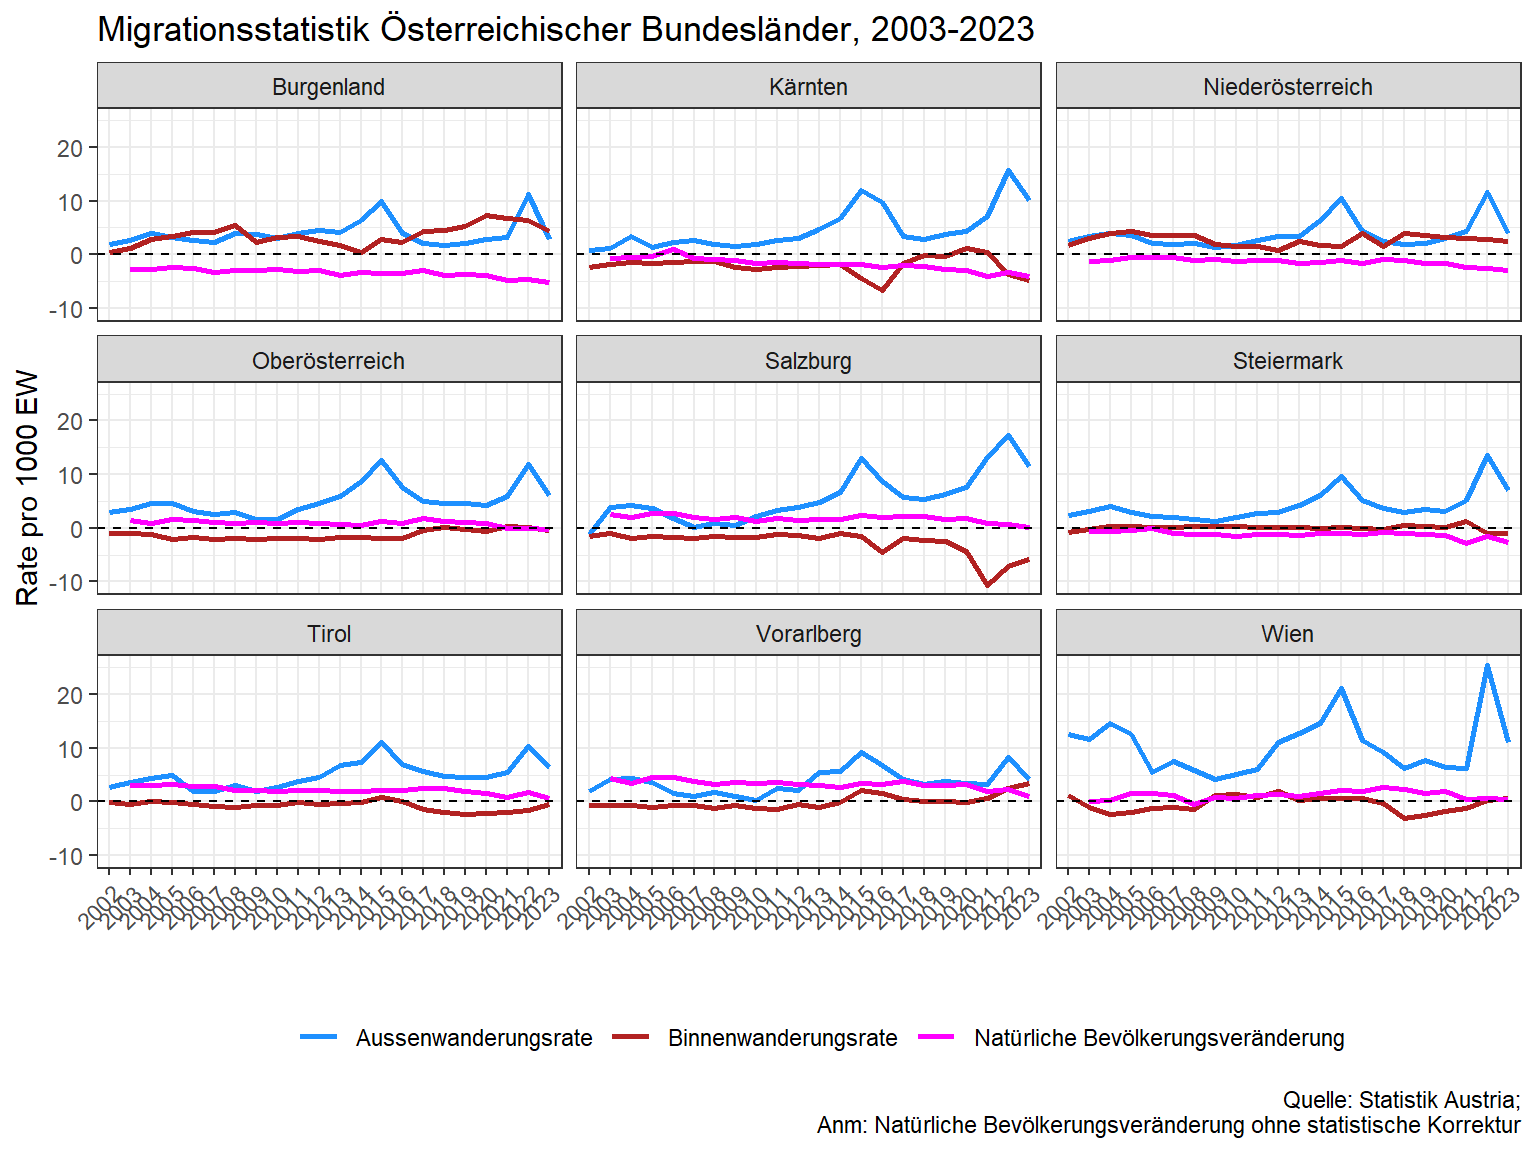
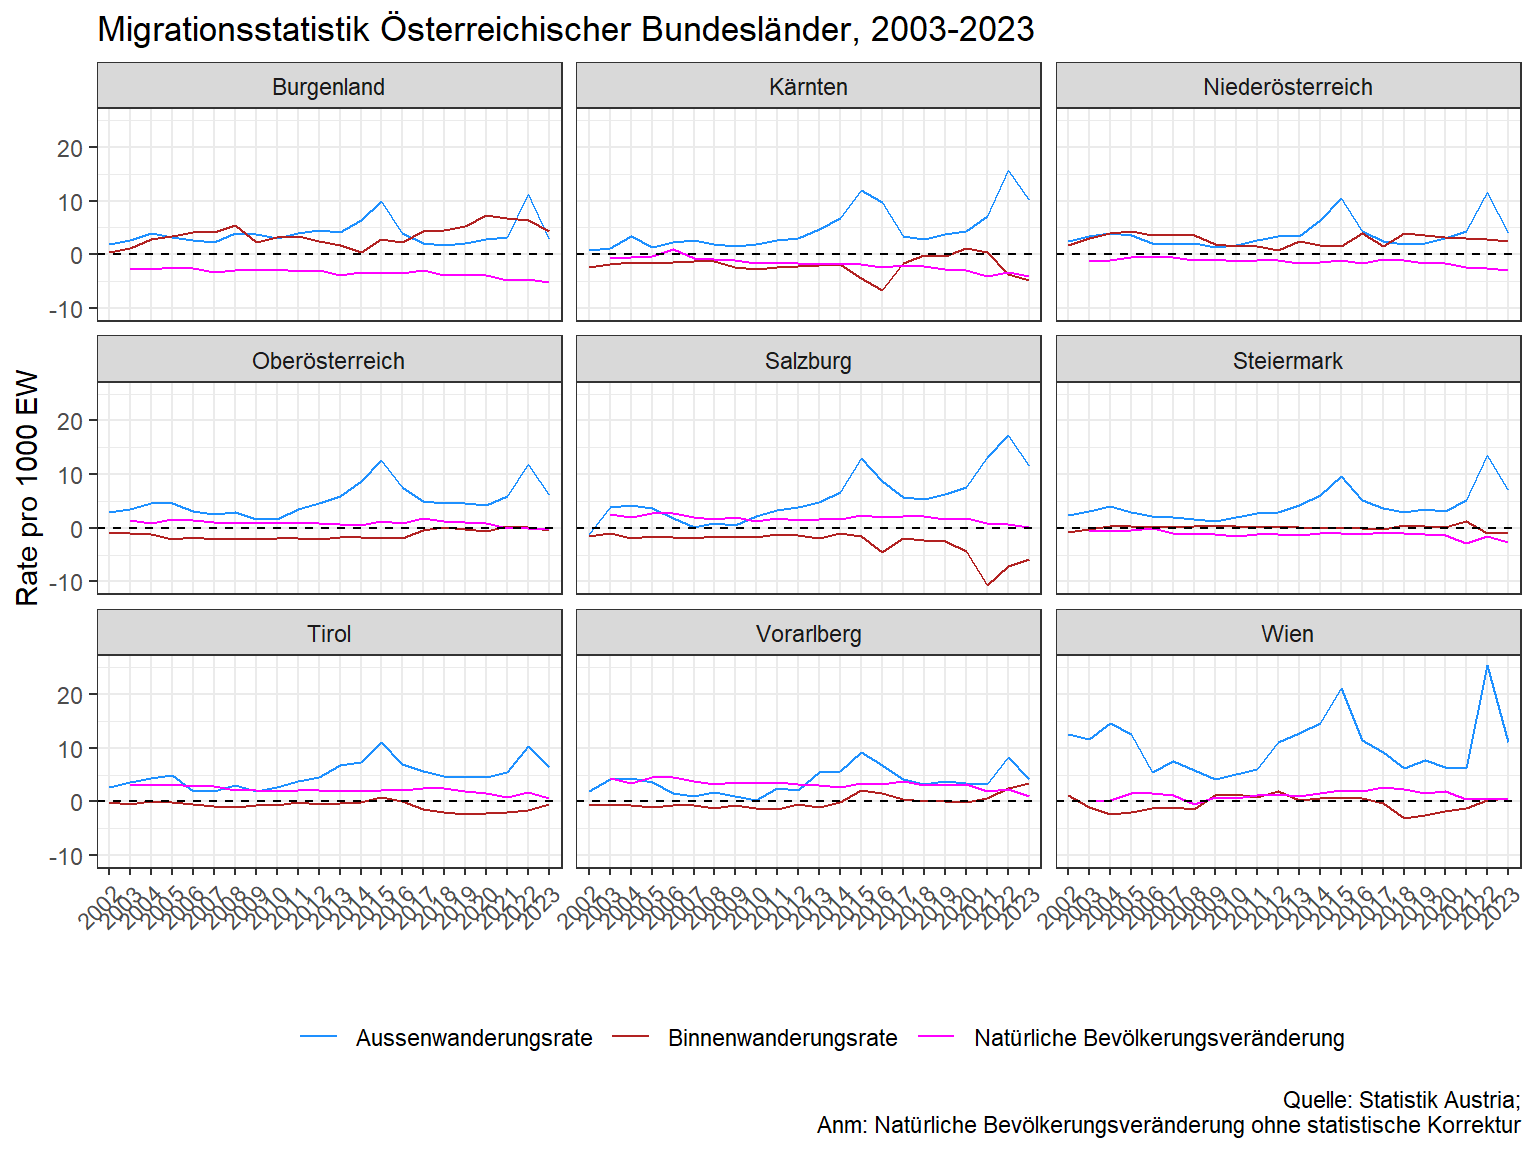
update

diff --git a/docs/05_regional_profile.html b/docs/05_regional_profile.html
@@ -300,7 +300,7 @@ pre > code.sourceCode > span > a:first-child::before { text-decoration: underlin
 <span id="cb7-5"><a href="#cb7-5" aria-hidden="true" tabindex="-1"></a>  <span class="fu">scale_color_manual</span>(</span>
 <span id="cb7-6"><a href="#cb7-6" aria-hidden="true" tabindex="-1"></a>    <span class="at">values =</span> <span class="fu">c</span>(<span class="st">"Urbaner Raum"</span> <span class="ot">=</span> <span class="st">"#b35e6b"</span>,</span>
 <span id="cb7-7"><a href="#cb7-7" aria-hidden="true" tabindex="-1"></a>               <span class="st">"Suburbaner Raum"</span> <span class="ot">=</span> <span class="st">"#eeaf58"</span>,</span>
-<span id="cb7-8"><a href="#cb7-8" aria-hidden="true" tabindex="-1"></a>               <span class="st">"Regionalzentren"</span> <span class="ot">=</span> <span class="st">"#eeec85"</span>,</span>
+<span id="cb7-8"><a href="#cb7-8" aria-hidden="true" tabindex="-1"></a>               <span class="st">"Regionalzentren"</span> <span class="ot">=</span> <span class="st">"#e0df70"</span>,</span>
 <span id="cb7-9"><a href="#cb7-9" aria-hidden="true" tabindex="-1"></a>               <span class="st">"Ländlicher Raum"</span> <span class="ot">=</span> <span class="st">"#84b870"</span>))<span class="sc">+</span></span>
 <span id="cb7-10"><a href="#cb7-10" aria-hidden="true" tabindex="-1"></a>  <span class="fu">theme_bw</span>()<span class="sc">+</span></span>
 <span id="cb7-11"><a href="#cb7-11" aria-hidden="true" tabindex="-1"></a>  <span class="fu">theme</span>(<span class="at">axis.text.x =</span> <span class="fu">element_text</span>(<span class="at">angle =</span> <span class="dv">45</span>, <span class="at">hjust =</span> <span class="dv">1</span>),</span>

diff --git a/docs/02_data_manipulation.html b/docs/02_data_manipulation.html
@@ -727,7 +727,7 @@ window.Quarto = {
 <div class="cell">
 <div class="code-copy-outer-scaffold"><div class="sourceCode cell-code" id="cb41"><pre class="sourceCode r code-with-copy"><code class="sourceCode r"><span id="cb41-1"><a href="#cb41-1" aria-hidden="true" tabindex="-1"></a><span class="fu">ggplot</span>(<span class="at">data =</span> rates_all <span class="sc">%&gt;%</span> <span class="fu">filter</span>(variable <span class="sc">!=</span> <span class="st">"mig_rate"</span>),</span>
 <span id="cb41-2"><a href="#cb41-2" aria-hidden="true" tabindex="-1"></a>       <span class="fu">aes</span>(<span class="at">x =</span> <span class="fu">as.factor</span>(jahr), <span class="at">y =</span> value, <span class="at">color =</span> variable, <span class="at">group =</span> variable))<span class="sc">+</span></span>
-<span id="cb41-3"><a href="#cb41-3" aria-hidden="true" tabindex="-1"></a>  <span class="fu">geom_line</span>(<span class="at">linewidth =</span> <span class="dv">1</span>)<span class="sc">+</span></span>
+<span id="cb41-3"><a href="#cb41-3" aria-hidden="true" tabindex="-1"></a>  <span class="fu">geom_line</span>()<span class="sc">+</span></span>
 <span id="cb41-4"><a href="#cb41-4" aria-hidden="true" tabindex="-1"></a>  <span class="co">#theme_classic()+</span></span>
 <span id="cb41-5"><a href="#cb41-5" aria-hidden="true" tabindex="-1"></a>  <span class="fu">scale_color_manual</span>(</span>
 <span id="cb41-6"><a href="#cb41-6" aria-hidden="true" tabindex="-1"></a>    <span class="at">values =</span> <span class="fu">c</span>(<span class="st">"au_rate"</span> <span class="ot">=</span> <span class="st">"dodgerblue"</span>,  </span>
